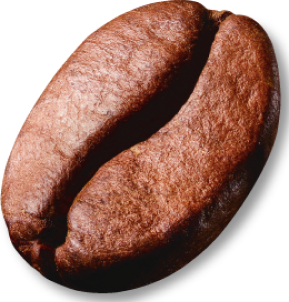
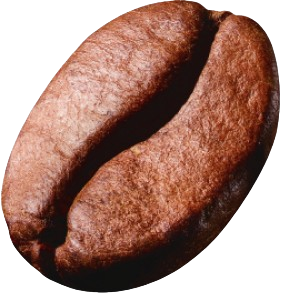
docs: hollys franchise 수정

diff --git a/html/css/hollys.css b/html/css/hollys.css
@@ -198,7 +198,27 @@ html,body{
                         font-size: 1.25rem;
                         background: #eca69a;
                         border: none;
-                        padding: .5rem;
+                        padding: .5rem 1.4rem .5rem 1rem;
+                        transition: all .2s ease;
+                        &:hover{
+                            background: #ba000d;
+                            color: #fff;
+                        }
+                        &:hover::after{
+                            transform: rotate(45deg) translate(3px, -3px);
+                            border-color: #fff;
+                        }
+                        &::after{
+                            content: '';
+                            border-top: solid 1px #000;
+                            border-right: solid 1px #000;
+                            transform: rotate(45deg) translateX(0);
+                            display: inline-block;
+                            width: 14px;
+                            height: 14px;
+                            margin-left: .5rem;
+                            transition: all .2s ease;
+                        }
                     }
                 }
             }
@@ -226,11 +246,18 @@ html,body{
                     .left{
                         left: 5%;
                         bottom: 0;
+                        img{
+                            filter: drop-shadow(-3px 9px 8px #333);
+                        }
                     }
                     .right{
                         right: 5%;
                         top: 10%;
+                        img{
+                            filter: drop-shadow(4px 9px 8px #333);
+                        }
                     }
+
                 }
                 .tel{
                     display: flex;

diff --git a/html/renewal/hollys.html b/html/renewal/hollys.html
@@ -120,7 +120,7 @@
                             <li class="two">합리적인 창업비용과 다양한 경험을 바탕으로,<br>
                                 정확한 데이터 기반의 맞춤 지원을 통해 창업 성공을 약속드립니다.</li>
                         </ul>
-                        <button class="go-to">바로가기</button>
+                        <button class="go-to">상담 신청하기</button>
                     </div>
                 </li>
                 <li class="right">
